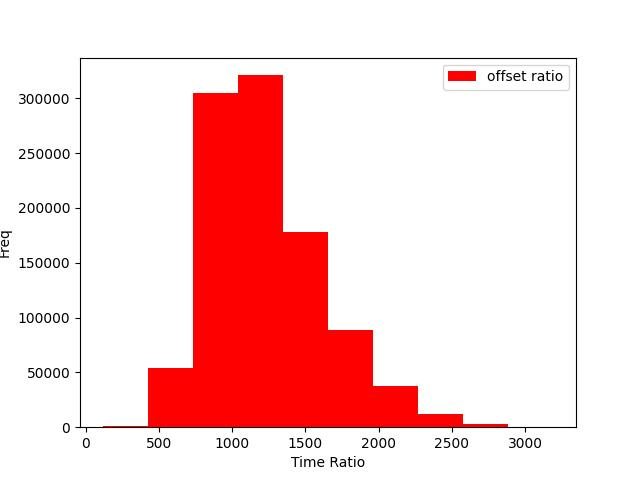
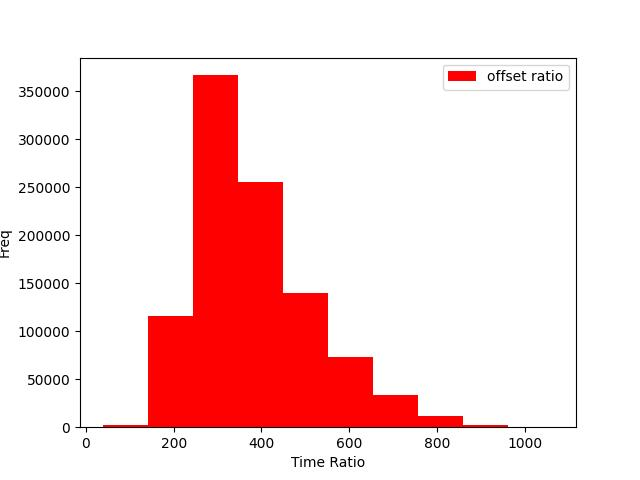
changed range

diff --git a/assignment1/20240454.py b/assignment1/20240454.py
@@ -1,10 +1,9 @@
 import numpy as np
 import time
 import matplotlib.pyplot as plt
-import sys
+from tqdm import tqdm
 
 np.random.seed(20240454)
-sys.setrecursionlimit(10000000)  # 예시: 재귀 깊이 제한을 높임
 
 
 #==============1-1==============
@@ -110,8 +109,8 @@ sys.setrecursionlimit(10000000)  # 예시: 재귀 깊이 제한을 높임
 #         A[i] = move / min(i + 1, k)
 #     return A
 
-# n = 2 ** 6
-# k = 2 ** 5
+# n = 2 ** 5
+# k = 2 ** 4
 # slow = np.zeros(1000)
 # optimized = np.zeros(1000)
 # for i in range(1000):
@@ -138,8 +137,8 @@ sys.setrecursionlimit(10000000)  # 예시: 재귀 깊이 제한을 높임
 # minTime = list()
 # maxTime = list()
 # avgTime = list()
-# k = 2 ** 5
-# for i in range(7, 12):
+# k = 2 ** 3
+# for i in range(4, 9):
 #     n = 2 ** i
 #     slow = np.zeros(1000)
 #     optimized = np.zeros(1000)
@@ -157,7 +156,7 @@ sys.setrecursionlimit(10000000)  # 예시: 재귀 깊이 제한을 높임
 #     avgTime.append((slow / optimized).mean())
 #     print(i)
     
-# nSize = [2 ** i for i in range(7, 12)]
+# nSize = [2 ** i for i in range(4, 9)]
 
 # plt.plot(nSize, minTime, marker='o', label='Min Time')
 # plt.plot(nSize, maxTime, marker='s', label='Max Time')
@@ -210,10 +209,20 @@ sys.setrecursionlimit(10000000)  # 예시: 재귀 깊이 제한을 높임
 
 # print("Ratio Hist 3")
 
+# three = np.zeros(1000)
+# n = 2 ** 3
+# for i in range(1000):
+#     A = list(range(n))
+#     np.random.shuffle(A)
+#     A.pop()
+#     start = time.perf_counter()
+#     findMissing(A, n)
+#     seven[i] = time.perf_counter() - start
+
 # minTime = list()
 # maxTime = list()
 # avgTime = list()
-# for i in range(7, 12):
+# for i in range(4, 9):
 #     n = 2 ** i
 #     find = np.zeros(1000)
 #     for j in range(1000):
@@ -221,12 +230,12 @@ sys.setrecursionlimit(10000000)  # 예시: 재귀 깊이 제한을 높임
 #         start = time.perf_counter()
 #         findMissing(X, n)
 #         find[j] = time.perf_counter() - start
-#     minTime.append((find / six).min())
-#     maxTime.append((find / six).max())
-#     avgTime.append((find / six).mean())
+#     minTime.append((find / three).min())
+#     maxTime.append((find / three).max())
+#     avgTime.append((find / three).mean())
 #     print(i)
     
-# nSize = [2 ** i / 2 ** 6 for i in range(7, 12)]
+# nSize = [2 ** i / 2 ** 3 for i in range(4, 9)]
 
 # plt.plot(nSize, minTime, marker='o', label='Min Time')
 # plt.plot(nSize, maxTime, marker='s', label='Max Time')
@@ -294,7 +303,7 @@ sys.setrecursionlimit(10000000)  # 예시: 재귀 깊이 제한을 높임
 # minTime = list()
 # maxTime = list()
 # avgTime = list()
-# for i in range(7, 13):
+# for i in range(4, 9):
 #     n = 2 ** i
 #     slow = np.zeros(1000)
 #     optimized = np.zeros(1000)
@@ -317,7 +326,7 @@ sys.setrecursionlimit(10000000)  # 예시: 재귀 깊이 제한을 높임
     
 #     print(i)
     
-# nSize = [2 ** i for i in range(7, 13)]
+# nSize = [2 ** i for i in range(4, 9)]
 
 # plt.plot(nSize, minTime, marker='o', label='Min Time')
 # plt.plot(nSize, maxTime, marker='s', label='Max Time')
@@ -401,9 +410,8 @@ print(spiral(10, 4))
 #==============3-2===============
 
 n = 10 ** 6
-
 toHist = np.zeros(n)
-for i in range(n):
+for i in tqdm(range(n)):
     # A = np.zeros((100, 100))
     howMuch = np.random.randint(5, 11)
     loc = np.random.choice(range(10000), howMuch, replace=False)
@@ -418,4 +426,23 @@ plt.xlabel("Time Ratio")
 plt.ylabel("Freq")
 
 plt.savefig("./sparse hist1.jpg")
+plt.clf()
+
+n = 10 ** 6
+toHist = np.zeros(n)
+for i in tqdm(range(n)):
+    # A = np.zeros((100, 100))
+    howMuch = np.random.randint(10, 21)
+    loc = np.random.choice(range(10000), howMuch, replace=False)
+    # A.flat[loc] = 1
+    nonzeroOffset = np.sum(loc)
+    locOffset = ((howMuch * 2) * (howMuch * 2 - 1)) // 2
+    toHist[i] = nonzeroOffset / locOffset
+
+plt.hist(toHist, color='red', label='offset ratio')
+plt.legend()
+plt.xlabel("Time Ratio")
+plt.ylabel("Freq")
+
+plt.savefig("./sparse hist2.jpg")
 plt.clf()
